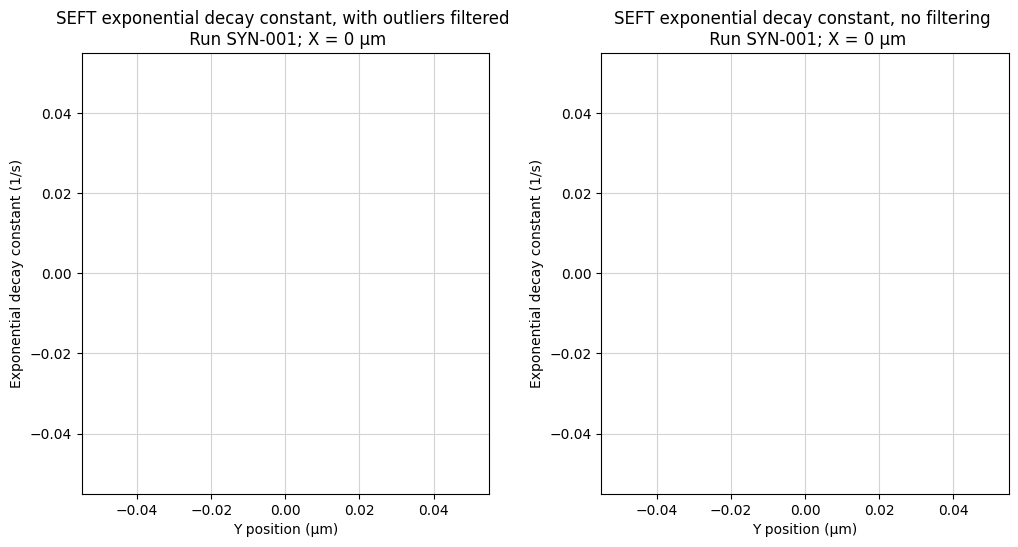
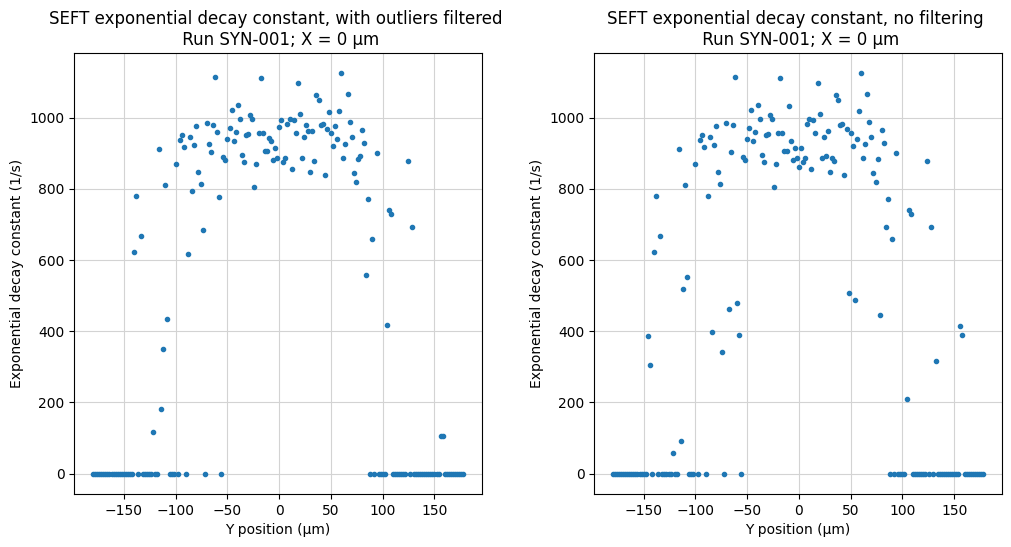
Analysis of synrun1, added hexagonal transient amp profile

diff --git a/new/metrics_augmentation.py b/new/metrics_augmentation.py
@@ -116,7 +116,18 @@ def main():
     Y = np.ceil(Y).astype("int")
 
     # Plot amplitude/noise profiles
-    plot_profile(noise_profile_transient_c, X, Y)
+    profiles = [
+        amplitude_profile_transient_N,
+        amplitude_profile_transient_λ,
+        amplitude_profile_transient_c,
+        noise_profile_transient_N,
+        noise_profile_transient_λ,
+        noise_profile_transient_c,
+        probability_profile_transient,
+        amplitude_profile_transient_N_hexagon,
+    ]
+    [plot_profile(profile) for profile in profiles]
+    exit()
 
     # Initialize .h5 file for transient storage
     init_file(run_number)
@@ -296,15 +307,17 @@ def generate_transient(x, y, N, λ, c):
     return signal
 
 
-def plot_profile(profile_function, X, Y):
-    X, Y = np.meshgrid(X, Y)
-    Z = map_profile(profile_function, X, Y)
+def plot_profile(profile_function):
+
+    X = np.linspace(-1, 1, 100)
+    X, Y = np.meshgrid(X, X)
+    Z = profile_function(X, Y)
 
     fig, ax = plt.subplots(subplot_kw={"projection": "3d"})
     surf = ax.plot_surface(X, Y, Z, cmap=cm.coolwarm, linewidth=0, antialiased=False)
 
     plt.savefig(
-        f"test.png",
+        f"plots/{profile_function.__name__}.png",
         bbox_inches="tight",
     )
     plt.close()
@@ -333,6 +346,18 @@ def amplitude_profile_transient_N(x, y):
     mean = [0, 0]
     covariance = [[0.125, 0], [0, 0.125]]
     return gaussian_2d(x, y, mean, covariance)
+
+
+@np.vectorize
+def amplitude_profile_transient_N_hexagon(x, y):
+    def hexagon(pos):
+        x, y = map(abs, pos)
+        return y < 3**0.5 * min(1 - x, 1 / 2)
+
+    if hexagon((x, y)):
+        return 1
+    else:
+        return 0
 
 
 @np.vectorize

diff --git a/new/plot_results.py b/new/plot_results.py
@@ -191,7 +191,7 @@ def plot(df, df_filtered, run_number):
     # Use color scale of filtered heatmap for unfiltered to prevent extreme color changes
     h1.set_clim(h2.get_clim())
 
-    plt.savefig(f"plots/{run_number}/map__frequency_deviation.png", bbox_inches="tight")
+    plt.savefig(f"plots/{run_number}/heatmap__frequency_deviation.png", bbox_inches="tight")
     plt.close()
 
 

diff --git a/new/config.py b/new/config.py
@@ -13,8 +13,8 @@ DOWNSAMPLE_FACTOR = 250
 
 # Block sizes in µm to apply model on
 # E.g. 5µm for run_026, 56, 24 and 20µm for run_014, 11, 12 etc.
-BLOCK_SIZE_X = 50
-BLOCK_SIZE_Y = 50
+BLOCK_SIZE_X = 10
+BLOCK_SIZE_Y = 10
 # Overlap percentage (0-100) of blocks overlapping
 BLOCK_OVERLAP = 0
 
